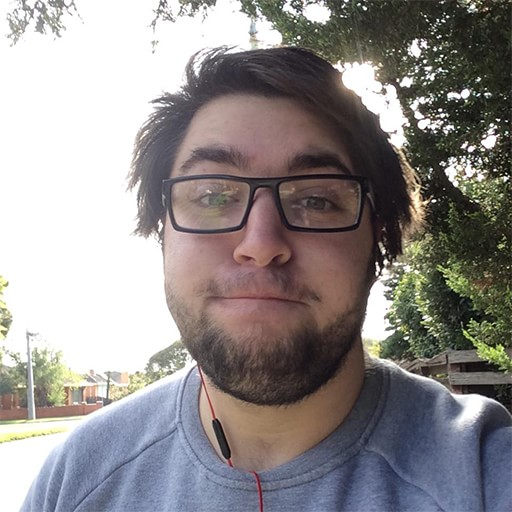
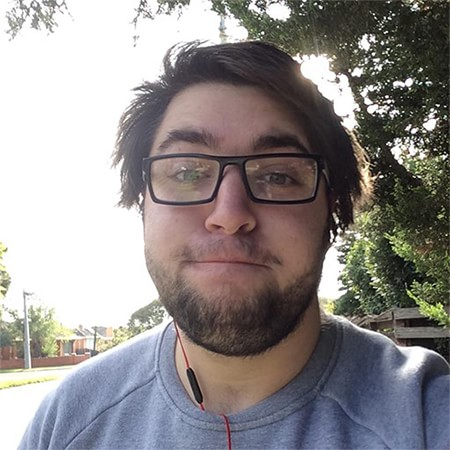
Resized portrait
modified font size in css

completely restarted portfolio description.

diff --git a/index.html b/index.html
@@ -38,43 +38,35 @@
     <p>
 
 	<img src="Images/Portrait.jpg" alt="Portrait" class="ThumbNails" id="Portrait"/>
-	 My name is <b>Jackson Luff</b>. I'm a 19 year old game developer that has
-       developed in several different languages; <b> C++, C#, JavaScript, HTML and CSS</b> - To name a few.
+	 My name is <b>Jackson Luff</b>. I'm a 19 year old game developer that is living 
+		in Melbourne, Australia. Over a solid 6 years of game development, I've picked up 
+		several languages along the way; <b> C++, C#, HTML, CSS and JS</b>. But something
+		that I've gained a keen eye for over the years has been OpenGL in C++.
        I am currently undergoing the <b>Advanced Diploma of Professional Game
-       Development at Academy of Interactive Entertainment (AIE)</b>. My ambition
+       Development at the Academy of Interactive Entertainment (AIE)</b>. My ambition
        fuelling most of my projects is a clash of creative chaos, the unique beauty
 	   and power of <b>computer graphics</b>, and of course, the notorious lack of sleep.
 	  <br><br>
       Here you'll find all kinds of weird stuff to do about me. If you're
-       interested in weird/wacky things that I too enjoy but have no relation
-        to me, visit my blog. That's the place where i talk mostly about
-        on-going updates to GenGein [my beast of an engine] or just
-        qwerky/fascinating stuff!
+       interested in weird/wacky things that I too enjoy, visit my blog. 
+	   That's the place where i talk mostly about on-going updates to 
+	   GenGein (my beast of an engine) or just qwerky/fascinating stuff!
       <br><br>
-      If you are in fact here to query a brief description of myself and what i do,
-       continue reading! ... Or not. That choice is completely dependant on if
-       you want a good programmer or not.
+	  <img src="Projects/GenGein/thumb.jpg" alt="Particles" class="ThumbNails" id="SplashScreen00"/>
+	  So as you've probably gathered from the splatter of prettiness all over your screen,
+	  graphical programming is most definitely my speciality. Being creative, graphics programming gives you near
+	  to infinite possibilities. Preferably working with OpenGL in C++, I have access to powerful low-level
+	  tools that have allowed me to go forth with innovative creations. If you're interested as to what I've
+	  <br>produced, checkout my YouTube channel down below. 
+	  <br><br><br><br>
+	  So, why graphics programming? I find visual response to be intriguing. 
+	  That's really what differentiates app dev's from game dev's. To have 
+	  thousands of lines consisting of nothing but math, logic and algorithms
+	  turn into a piece of art is chaotically beautiful. Graphics programming allows me to 
+	  adventure onward to all bases that both the GPU and CPU can offer when it comes to rendering.
       <br><br>
-	  <img src="Projects/Columns/thumb.jpg" alt="Columns" class="ThumbNails" id="SplashScreen00"/>
-	  As you probably presumed, computer graphics is indeed the area that I enjoy
-	  adventuring the most. Whether it be CPU or GPU - there is always a way to make
-	  your project be pretty. As you will see throughout my projects, I thrive to post
-	  eye-catching content [e.g. this portfolio]. This is for two reasons. The first being
-	  that it's hard to please everyone. But it's easy to gain a larger audience with a pretty
-	  persona than with "programmer graphics". The second reason is self-assurance. There is no better
-	  feeling than to overview your work as if it were an art gallery.
       <br><br>
-	  <img src="Projects/GenGein/thumb.jpg" alt="Particles" class="ThumbNails" id="SplashScreen01"/>
-      Now, programming for myself isn't just about sitting at a computer tweaking values in
-	  ugly code hoping for a result. No, Beautiful programming is my basis. What I attempt
-	  to produce are projects that retain readability and both efficiency and effectiveness.
-	  How, you say? Well first the main problem present is that as the project expands,
-	  so does the probability for your project to become a plate full of spaghetti and hope.
-	  Thus, I often go through my code to clean up what should be where and fix up the
-	  execution structure to ensure the code is more optimal than previously. This process
-	  is often overlooked by the client, but the passion is still visible.
-      <br><br>
-	  Last Updated: 9th April 2015
+	  Last Updated: 10th May 2015
     </p>
   </div>
 </body>

diff --git a/attribs.css b/attribs.css
@@ -25,7 +25,7 @@ h2 {
 
 P {
   display:block;
-  width:75%;
+  width:90%;
   margin-left: auto;
   margin-right: auto;
   text-align: center;
@@ -41,7 +41,7 @@ P {
 {
   background-color: rgba(25,25,25,0.8);
   font-family:Verdana;
-
+  font-size:98%;
   margin-left:auto;
   margin-right: auto;
   margin-bottom: 50px;
@@ -70,6 +70,7 @@ P {
 	width:25%;
 	height:auto;
 	border:5px solid white;
+	border-radius: 5px;
 }
 
 .IconProperties
@@ -106,13 +107,6 @@ P {
 
 }
 
-#SplashScreen01
-{
-	float:right;
-	-ms-transform: rotate(7deg); /* IE 9 */
-    -webkit-transform: rotate(7deg); /* Chrome, Safari, Opera */
-    transform: rotate(7deg);
-}
 /* Rainbow colours
 #FF0000 - BvB
 #FF8000 - TinyTanks
